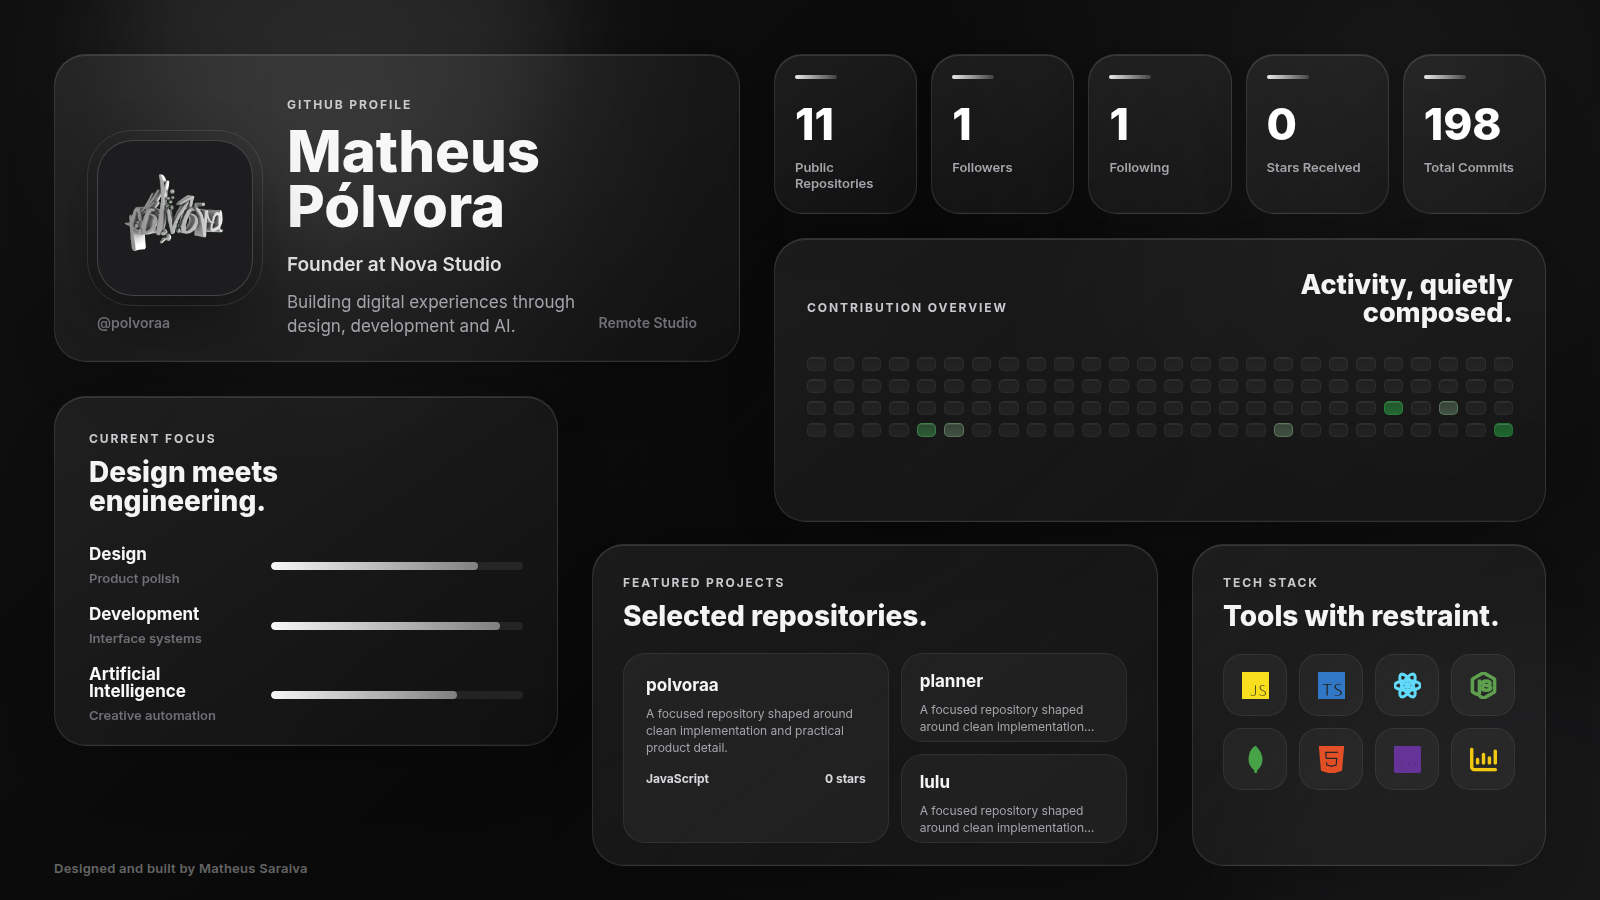
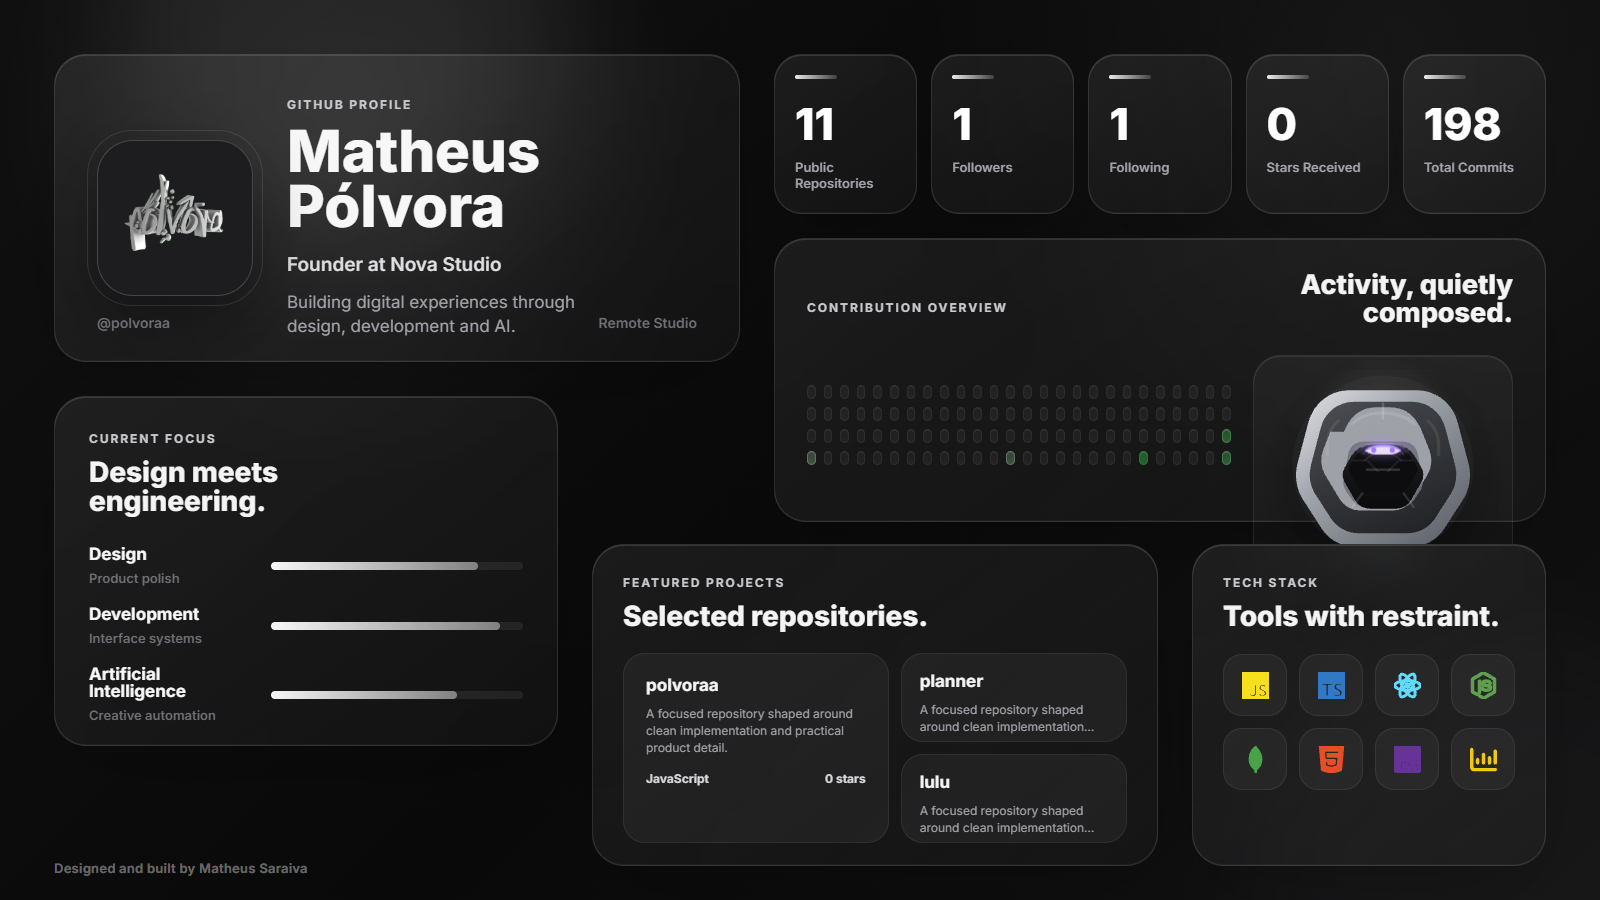
teste

diff --git a/index.html b/index.html
@@ -66,7 +66,56 @@
           <p class="eyebrow">Contribution Overview</p>
           <h2>Activity, quietly composed.</h2>
         </div>
-        <div id="heatmap" class="heatmap" aria-label="GitHub contribution heatmap"></div>
+        <div class="overview-layout">
+          <div id="heatmap" class="heatmap" aria-label="GitHub contribution heatmap"></div>
+          <div class="mask-card" aria-label="Iron Man inspired mask illustration">
+            <svg viewBox="0 0 360 360" role="img" aria-hidden="true">
+              <defs>
+                <linearGradient id="mask-metal" x1="0" y1="0" x2="1" y2="1">
+                  <stop offset="0%" stop-color="#e3e4e8" />
+                  <stop offset="40%" stop-color="#9da1a8" />
+                  <stop offset="100%" stop-color="#565a62" />
+                </linearGradient>
+                <linearGradient id="mask-shadow" x1="0" y1="0" x2="0" y2="1">
+                  <stop offset="0%" stop-color="#1a1b1f" />
+                  <stop offset="100%" stop-color="#060607" />
+                </linearGradient>
+                <radialGradient id="eye-lilac" cx="50%" cy="50%" r="50%">
+                  <stop offset="0%" stop-color="#efe7ff" />
+                  <stop offset="55%" stop-color="#c7adff" />
+                  <stop offset="100%" stop-color="#7d5cff" />
+                </radialGradient>
+              </defs>
+              <circle cx="180" cy="180" r="148" fill="rgba(255,255,255,0.03)" />
+              <path d="M124 56h112c31 0 58 22 66 52l18 68c5 20 2 42-9 59l-31 48c-12 18-32 29-54 29h-92c-22 0-42-11-54-29l-31-48c-11-17-14-39-9-59l18-68c8-30 35-52 66-52Z" fill="url(#mask-metal)" />
+              <path d="M132 75h96c26 0 48 18 54 43l16 61c4 15 2 32-6 45l-27 42c-10 15-27 24-45 24h-80c-18 0-35-9-45-24l-27-42c-8-13-10-30-6-45l16-61c6-25 28-43 54-43Z" fill="url(#mask-shadow)" opacity="0.72" />
+              <path d="M116 124c10-26 28-40 52-40h24c24 0 42 14 52 40l12 30c5 13 4 28-3 40l-24 40c-7 12-20 19-34 19h-52c-14 0-27-7-34-19l-24-40c-7-12-8-27-3-40l12-30Z" fill="#a3a6ad" opacity="0.95" />
+              <path d="M147 140h66c12 0 22 9 24 21l8 41c1 7-1 14-5 20l-9 13c-5 8-14 13-24 13h-54c-10 0-19-5-24-13l-9-13c-4-6-6-13-5-20l8-41c2-12 12-21 24-21Z" fill="#6f7279" opacity="0.9" />
+              <path d="M128 164c7-12 19-19 33-19h38c14 0 26 7 33 19l11 19c4 7 4 16 0 23l-16 28c-5 10-15 16-27 16h-40c-12 0-22-6-27-16l-16-28c-4-7-4-16 0-23l11-19Z" fill="url(#mask-shadow)" opacity="0.96" />
+              <path d="M136 164c6-8 14-13 24-13h40c10 0 18 5 24 13l10 14c3 4 3 10 0 14l-12 21c-4 7-12 11-20 11h-44c-8 0-16-4-20-11l-12-21c-3-4-3-10 0-14l10-14Z" fill="#0d0d10" />
+              <path d="M129 111c13-12 31-18 51-18h0c20 0 38 6 51 18" fill="none" stroke="rgba(255,255,255,0.12)" stroke-width="5" stroke-linecap="round" />
+              <path d="M107 106c-12 10-18 24-18 39v17" fill="none" stroke="rgba(255,255,255,0.08)" stroke-width="5" stroke-linecap="round" />
+              <path d="M253 106c12 10 18 24 18 39v17" fill="none" stroke="rgba(255,255,255,0.08)" stroke-width="5" stroke-linecap="round" />
+              <path d="M154 186h52" fill="none" stroke="rgba(255,255,255,0.16)" stroke-width="4" stroke-linecap="round" />
+              <path d="M180 78v24" fill="none" stroke="rgba(255,255,255,0.16)" stroke-width="4" stroke-linecap="round" />
+              <path d="M146 225l-16 22" fill="none" stroke="rgba(255,255,255,0.12)" stroke-width="4" stroke-linecap="round" />
+              <path d="M214 225l16 22" fill="none" stroke="rgba(255,255,255,0.12)" stroke-width="4" stroke-linecap="round" />
+              <path d="M147 161c6-10 14-15 24-15h18c10 0 18 5 24 15" fill="none" stroke="rgba(255,255,255,0.1)" stroke-width="3" stroke-linecap="round" />
+              <path d="M132 171h22l18 18" fill="none" stroke="rgba(255,255,255,0.08)" stroke-width="3" stroke-linecap="round" />
+              <path d="M228 171h-22l-18 18" fill="none" stroke="rgba(255,255,255,0.08)" stroke-width="3" stroke-linecap="round" />
+              <path d="M145 150c9-5 19-7 35-7s26 2 35 7" fill="none" stroke="rgba(255,255,255,0.18)" stroke-width="3" stroke-linecap="round" />
+              <path d="M150 171c7-8 18-12 30-12s23 4 30 12" fill="none" stroke="rgba(255,255,255,0.08)" stroke-width="2.5" stroke-linecap="round" />
+              <g class="mask-eyes">
+                <path d="M150 154c9-7 20-10 30-10s21 3 30 10c-6 4-13 6-20 6h-20c-7 0-14-2-20-6Z" fill="url(#eye-lilac)" />
+                <path d="M150 154c9-7 20-10 30-10s21 3 30 10c-6 4-13 6-20 6h-20c-7 0-14-2-20-6Z" fill="rgba(185,147,255,0.14)" />
+                <path d="M130 153c12-16 28-24 50-24s38 8 50 24c-10 6-20 9-30 9h-40c-10 0-20-3-30-9Z" fill="rgba(168,127,255,0.12)" />
+                <path d="M151 155c8-4 16-6 29-6s21 2 29 6c-5 4-11 6-17 6h-24c-6 0-12-2-17-6Z" fill="#f2e9ff" opacity="0.94" />
+                <circle cx="165" cy="154" r="4.2" fill="#a67dff" />
+                <circle cx="195" cy="154" r="4.2" fill="#a67dff" />
+              </g>
+            </svg>
+          </div>
+        </div>
       </section>
 
       <section class="focus glass-panel">

diff --git a/styles.css b/styles.css
@@ -266,6 +266,68 @@ h1 {
   gap: 8px;
 }
 
+.overview-layout {
+  margin-top: 28px;
+  display: grid;
+  grid-template-columns: minmax(0, 1fr) 260px;
+  gap: 22px;
+  align-items: stretch;
+}
+
+.mask-card {
+  position: relative;
+  display: grid;
+  place-items: center;
+  overflow: hidden;
+  border-radius: 28px;
+  border: 1px solid rgba(255, 255, 255, 0.08);
+  background:
+    radial-gradient(circle at 50% 28%, rgba(255, 255, 255, 0.08), transparent 34%),
+    linear-gradient(180deg, rgba(255, 255, 255, 0.04), rgba(255, 255, 255, 0.02));
+  box-shadow:
+    inset 0 1px 0 rgba(255, 255, 255, 0.08),
+    inset 0 -1px 0 rgba(255, 255, 255, 0.03);
+}
+
+.mask-card::before {
+  content: "";
+  position: absolute;
+  inset: 14px;
+  border-radius: 22px;
+  background: radial-gradient(circle at 50% 38%, rgba(255, 255, 255, 0.05), transparent 58%);
+  pointer-events: none;
+}
+
+.mask-card svg {
+  position: relative;
+  width: min(220px, 100%);
+  height: auto;
+  overflow: visible;
+  filter: drop-shadow(0 18px 28px rgba(0, 0, 0, 0.32));
+}
+
+.mask-eyes {
+  transform-origin: 180px 154px;
+  animation: mask-breathe 5.8s ease-in-out infinite;
+}
+
+.mask-eyes path,
+.mask-eyes circle {
+  filter: drop-shadow(0 0 8px rgba(190, 154, 255, 0.24));
+}
+
+@keyframes mask-breathe {
+  0%,
+  100% {
+    transform: scale(1);
+    opacity: 0.92;
+  }
+  50% {
+    transform: scale(1.02);
+    opacity: 1;
+  }
+}
+
 .heat-cell {
   border-radius: 5px;
   background:
@@ -565,6 +627,10 @@ h1 {
     font-size: 22px;
   }
 
+  .overview-layout {
+    grid-template-columns: 1fr;
+  }
+
   .projects-grid {
     grid-template-columns: 1fr;
     grid-template-rows: auto;
@@ -627,6 +693,10 @@ h1 {
 
   .heatmap {
     grid-template-columns: repeat(13, minmax(0, 1fr));
+  }
+
+  .mask-card {
+    min-height: 240px;
   }
 
   .tech-grid {
